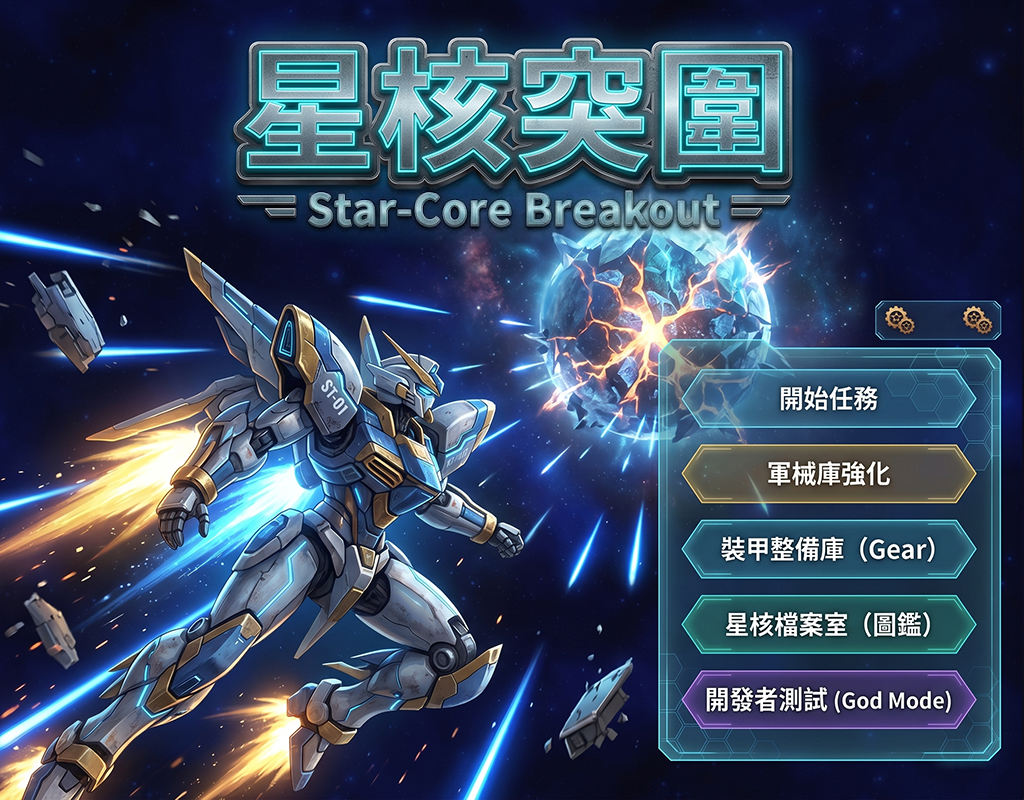
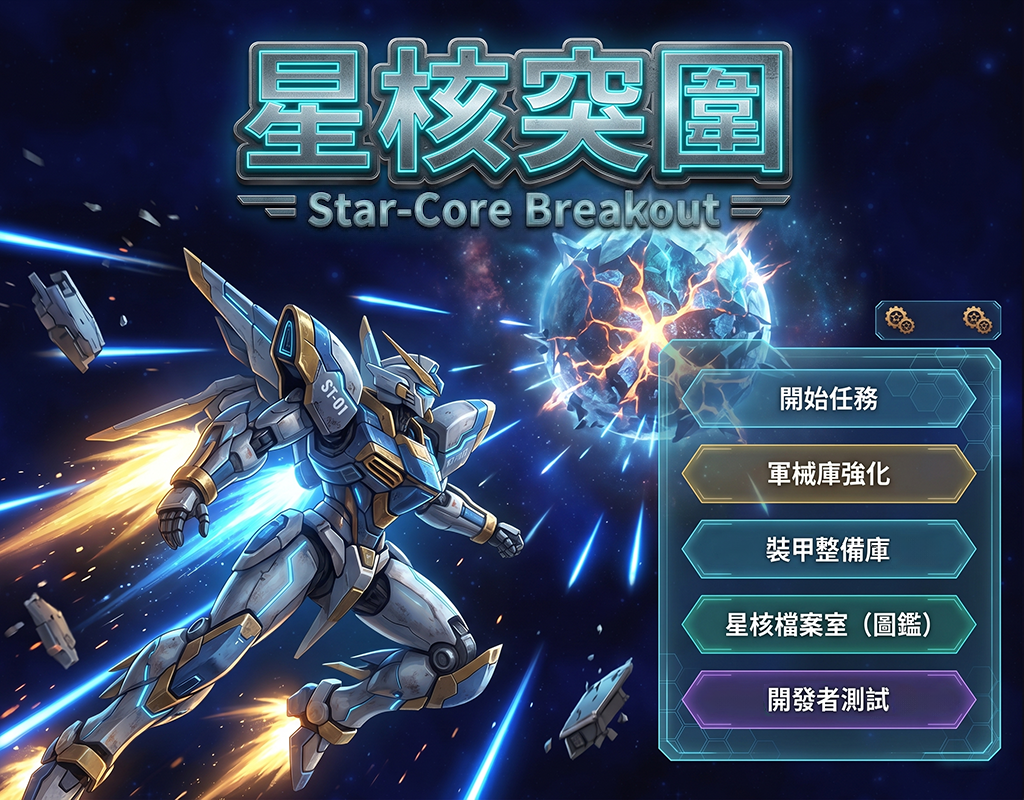
Add files via upload

Changed region(s): [[0.6875, 0.8438, 0.9375, 0.9062], [0.6875, 0.6562, 0.9062, 0.7188]]

diff --git a/game.js b/game.js
@@ -86,11 +86,31 @@ class BootScene extends Phaser.Scene {
         this.make.graphics({ x: 0, y: 0, add: false }).fillStyle(0xff00ff).fillCircle(5, 5, 5).fillStyle(0xffffff).fillCircle(5, 5, 2).generateTexture('novaBullet', 10, 10);
         // 載入史詩級 Boss 寶箱圖片
         this.load.image('superChest', './assets/super_chest.png');
-        // 繪製高亮度【黃金能量水晶】 (外層橘金光暈 -> 中層耀眼黃 -> 內層純白核心)
+        // 👇 替換為全新設計的【霓虹粉紫菱形水晶 (EXP Gem)】：
         const fragGfx = this.make.graphics({ x: 0, y: 0, add: false });
-        fragGfx.fillStyle(0xffaa00, 0.4).fillCircle(10, 10, 10); // 橘金色的外圍擴散光暈
-        fragGfx.fillStyle(0xffff00, 0.8).fillCircle(10, 10, 6);  // 極度明亮的純黃色中層
-        fragGfx.fillStyle(0xffffff, 1.0).fillCircle(10, 10, 3);  // 純白色的能量核心
+        
+        // 1. 外層：霓虹粉紫色的菱形光暈，極度顯眼
+        fragGfx.fillStyle(0xff00ff, 0.4); 
+        fragGfx.beginPath();
+        fragGfx.moveTo(10, 0); fragGfx.lineTo(20, 10); fragGfx.lineTo(10, 20); fragGfx.lineTo(0, 10);
+        fragGfx.closePath();
+        fragGfx.fillPath();
+
+        // 2. 中層：高亮螢光粉的實體水晶
+        fragGfx.fillStyle(0xff66ff, 0.9);
+        fragGfx.beginPath();
+        fragGfx.moveTo(10, 3); fragGfx.lineTo(17, 10); fragGfx.lineTo(10, 17); fragGfx.lineTo(3, 10);
+        fragGfx.closePath();
+        fragGfx.fillPath();
+
+        // 3. 內層：純白色的閃耀星芒核心
+        fragGfx.fillStyle(0xffffff, 1.0);
+        fragGfx.beginPath();
+        fragGfx.moveTo(10, 6); fragGfx.lineTo(14, 10); fragGfx.lineTo(10, 14); fragGfx.lineTo(6, 10);
+        fragGfx.closePath();
+        fragGfx.fillPath();
+
+        // 生成全新的經驗值貼圖
         fragGfx.generateTexture('fragment', 20, 20);
         // 載入全新設計的空投艙圖片與毒霧圖片
         this.load.image('supplyBox', './assets/supply_box.png');
@@ -164,7 +184,14 @@ class MainMenuScene extends Phaser.Scene {
         this.bestiaryPanel = this.add.container(0, 0).setVisible(false).setDepth(3000);
         const bestiaryBg = this.add.rectangle(500, 400, 1000, 800, 0, 0.95).setInteractive();
         this.bestiaryPanel.add([bestiaryBg, this.add.rectangle(500, 400, 800, 600, 0x111122).setStrokeStyle(4, 0x00ffaa)]);
-        this.bestiaryPanel.add(this.add.text(500, 150, '星核檔案室 - 異種資料庫', { fontSize: '42px', color: '#00ffaa', fontStyle: 'bold' }).setOrigin(0.5));
+        // 👇 加入 fontFamily 與 padding 防止剃頭
+        this.bestiaryPanel.add(this.add.text(500, 150, '星核檔案室 - 異種資料庫', { 
+            fontFamily: '"Microsoft JhengHei", Arial, sans-serif',
+            fontSize: '42px', 
+            color: '#00ffaa', 
+            fontStyle: 'bold',
+            padding: { top: 10, bottom: 10 } 
+        }).setOrigin(0.5));
 
         this.monsterList = this.add.container(300, 240);
         // === 軍械庫 (Shop) 面板華麗重構 ===
@@ -238,7 +265,14 @@ class MainMenuScene extends Phaser.Scene {
         this.bestiaryPanel.add([this.monsterList, this.mutationList]);
 
         const closeBestiary = this.add.rectangle(500, 650, 200, 50, 0x333333).setInteractive({ useHandCursor: true }).on('pointerdown', () => this.toggleBestiary(false));
-        this.bestiaryPanel.add([closeBestiary, this.add.text(500, 650, '關閉圖鑑', { fontSize: '24px', color: '#ff0000' }).setOrigin(0.5)]);
+        // 👇 加入 fontFamily 與 padding 防止剃頭，順便加粗讓按鈕更好看
+        this.bestiaryPanel.add([closeBestiary, this.add.text(500, 650, '關閉圖鑑', { 
+            fontFamily: '"Microsoft JhengHei", Arial, sans-serif',
+            fontSize: '24px', 
+            color: '#ff0000',
+            fontStyle: 'bold',
+            padding: { top: 5, bottom: 5 }
+        }).setOrigin(0.5)]);
 
         this.charPanel = this.add.container(0, 0).setVisible(false).setDepth(2000);
         const charBg = this.add.rectangle(500, 400, 1000, 800, 0, 0.9).setInteractive();
@@ -930,8 +964,18 @@ class MainGameScene extends Phaser.Scene {
         this.bossHud.add([this.bossBarFront, this.bossNameUiTxt]);
 
         this.pauseOverlay = this.add.rectangle(500, 400, 1000, 800, 0, 0.8).setScrollFactor(0).setDepth(9500).setVisible(false).setInteractive();
-        this.quitBtn = this.add.rectangle(500, 500, 320, 70, 0x333333).setInteractive({ useHandCursor: true }).setScrollFactor(0).setDepth(9501).setVisible(false).setStrokeStyle(2, 0x00ffff);
-        this.quitTxt = this.add.text(500, 500, '返回主選單', { fontFamily: '"Microsoft JhengHei", Arial, sans-serif', fontSize: '28px', color: '#00ffff', fontStyle: 'bold', padding: { top: 5, bottom: 5 } }).setOrigin(0.5).setScrollFactor(0).setDepth(9502).setVisible(false);
+        
+        // 👇 1. 新增「返回遊戲」按鈕 (放在畫面上方 Y: 420)
+        this.resumeBtn = this.add.rectangle(500, 420, 320, 70, 0x333333).setInteractive({ useHandCursor: true }).setScrollFactor(0).setDepth(9501).setVisible(false).setStrokeStyle(2, 0x00ffff);
+        this.resumeTxt = this.add.text(500, 420, '返回遊戲', { fontFamily: '"Microsoft JhengHei", Arial, sans-serif', fontSize: '28px', color: '#00ffff', fontStyle: 'bold', padding: { top: 5, bottom: 5 } }).setOrigin(0.5).setScrollFactor(0).setDepth(9502).setVisible(false);
+        
+        // 綁定點擊事件：呼叫 togglePause 解除暫停
+        this.resumeBtn.on('pointerdown', () => this.togglePause());
+
+        // 👇 2. 調整原本的「返回主選單」按鈕 (往下移到 Y: 530，並改為紅色調防誤觸)
+        this.quitBtn = this.add.rectangle(500, 530, 320, 70, 0x333333).setInteractive({ useHandCursor: true }).setScrollFactor(0).setDepth(9501).setVisible(false).setStrokeStyle(2, 0xff5555);
+        this.quitTxt = this.add.text(500, 530, '返回主選單', { fontFamily: '"Microsoft JhengHei", Arial, sans-serif', fontSize: '28px', color: '#ff5555', fontStyle: 'bold', padding: { top: 5, bottom: 5 } }).setOrigin(0.5).setScrollFactor(0).setDepth(9502).setVisible(false);
+        
         this.quitBtn.on('pointerdown', () => {
             this.sound.stopAll();
             if (!this.isTestMode) {
@@ -2385,7 +2429,19 @@ class MainGameScene extends Phaser.Scene {
         }
     }
 
-    togglePause() { this.isPaused = !this.isPaused; const v = this.isPaused; this.isPaused ? this.physics.pause() : this.physics.resume(); this.pauseOverlay.setVisible(v); this.quitBtn.setVisible(v); this.quitTxt.setVisible(v); }
+    togglePause() { 
+        this.isPaused = !this.isPaused; 
+        const v = this.isPaused; 
+        this.isPaused ? this.physics.pause() : this.physics.resume(); 
+        
+        this.pauseOverlay.setVisible(v); 
+        this.quitBtn.setVisible(v); 
+        this.quitTxt.setVisible(v); 
+        
+        // 👇 追加控制這兩個新元素的顯示狀態
+        this.resumeBtn.setVisible(v);
+        this.resumeTxt.setVisible(v);
+    }
 }
 
 const config = {